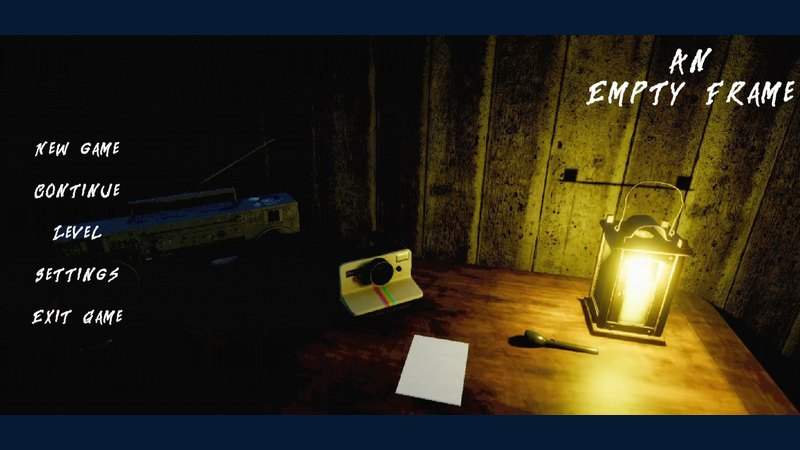
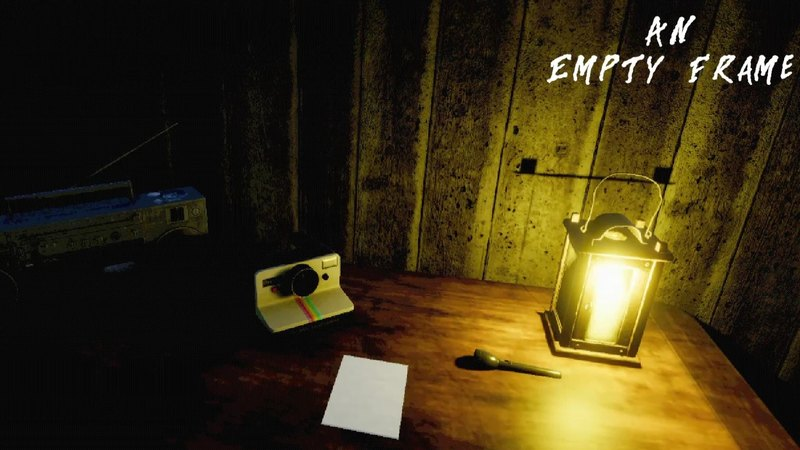
Portfolio round 7: align Earlier Work cards, remove duplicate meta, drop Arduino GitHub link

diff --git a/assets/css/style.css b/assets/css/style.css
@@ -4058,6 +4058,48 @@ header {
 }
 
 /* An Empty Frame thumbnail is letterboxed on purpose (keeps the title visible) */
-.earlier-thumb img[src*="empty-frame"] {
-    object-fit: contain;
+
+/* Round 7: Earlier Work rows line up; buttons sit on the same line per row */
+.earlier-card {
+    display: flex;
+    flex-direction: column;
+}
+
+.earlier-thumb {
+    position: relative;
+    aspect-ratio: 16 / 9;
+    width: 100%;
+    height: auto;
+    overflow: hidden;
+    background: #061a33;
+}
+
+.earlier-thumb img {
+    position: absolute;
+    inset: 0;
+    width: 100%;
+    height: 100%;
+    object-fit: cover;
+    object-position: center;
+}
+
+.earlier-year {
+    min-height: 1.4em;
+    margin: 0 0 6px;
+}
+
+.earlier-title {
+    min-height: 2.6em;
+}
+
+.earlier-meta {
+    min-height: 3.2em;
+}
+
+.earlier-summary {
+    flex-grow: 1;
+}
+
+.earlier-links {
+    margin-top: 0;
 }

diff --git a/assets/js/script.js b/assets/js/script.js
@@ -86,7 +86,7 @@ function createEarlierCard(project) {
             <img src="${escapeHtml(project.thumb)}" alt="${escapeHtml(project.title)} screenshot" loading="lazy">
         </div>
         <div class="earlier-body">
-            ${project.yearCompleted ? `<p class="earlier-year">${escapeHtml(project.yearCompleted)}</p>` : ''}
+            <p class="earlier-year">${escapeHtml(project.yearCompleted) || '&nbsp;'}</p>
             <h3 class="earlier-title">${escapeHtml(project.title)}</h3>
             <p class="earlier-meta">${escapeHtml(project.meta)}</p>
             <p class="earlier-summary">${escapeHtml(project.summary)}</p>
